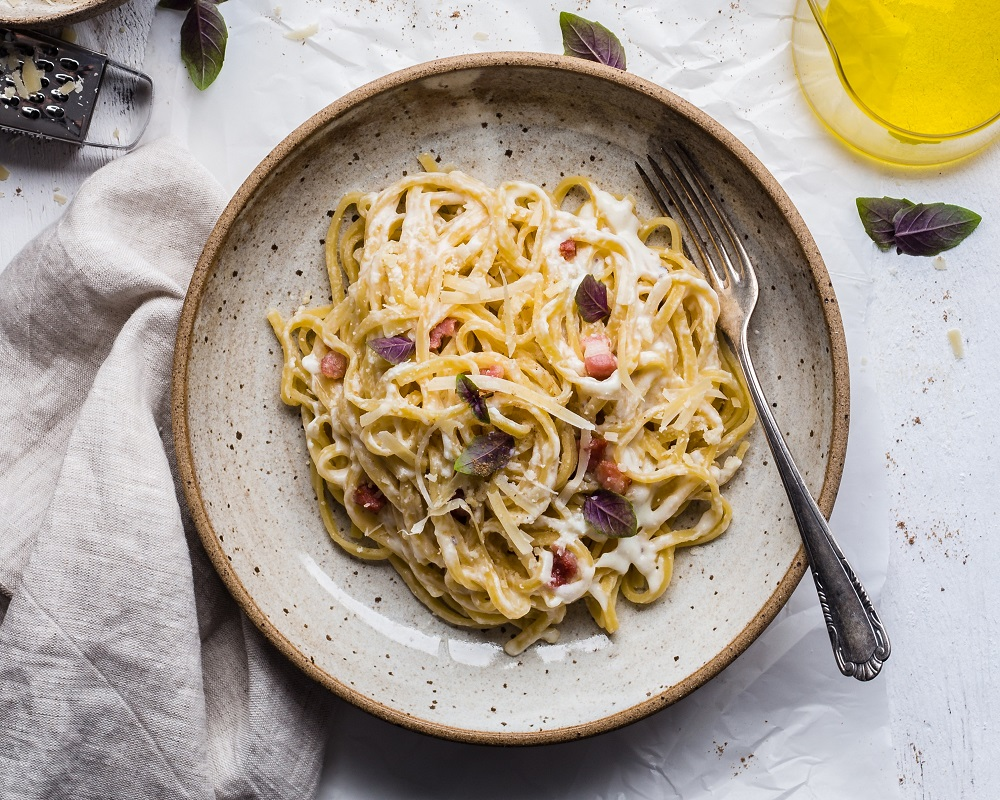
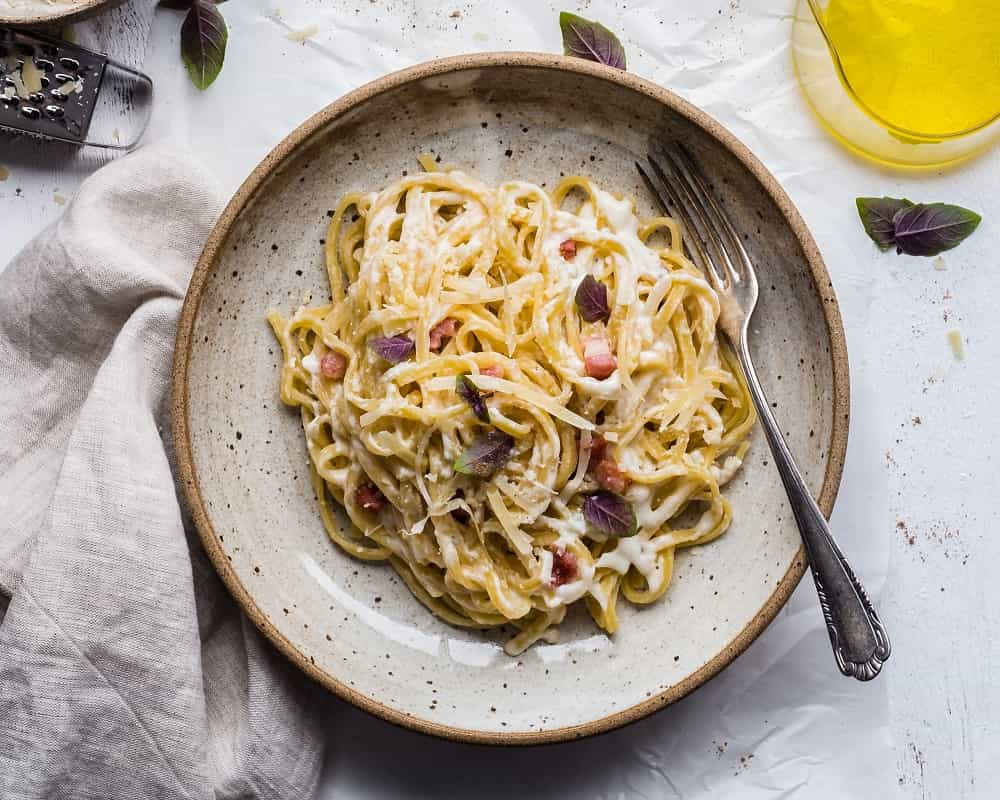
Minor fixes: removed commented out code blocks, removed unused images, compressed the current images, changed the size of aceptable images

diff --git a/templates/index.html b/templates/index.html
@@ -68,12 +68,14 @@
         <div class="col-12 py-3 border-bottom border-primary">
           <h2 class="font-weight-light font-italic fs-25 p3-">Recipes Dashboard</h2>
         </div>
-
+        
+        <!--itterate through each item in the data group-->
         {% for group in dashboard %}
         <div class="col-12 py-3 border-bottom border-primary">
           <h3>{{group.heading}}</h3>
           <div class="accordion" id="{{group.id}}-accordion">
-
+            
+            <!--itterate through each category in the data list-->
             {% for item in group.list %}
             <div class="card">
               <div class="card-header" id="{{group.id}}-heading{{loop.index}}">
@@ -86,7 +88,8 @@
 
               <div id="{{group.id}}-collapse{{loop.index}}" class="collapse" data-parent="#{{group.id}}-accordion">
                 <div class="card-body p-2">
-
+                  
+                  <!--if there are recipes to show create card per each recipe-->
                   {% if item.recipes %}
                   <div class="row p-1 d-flex flex-grow-1 align-content-center flex-wrap ">
                     {% for recipe in item.recipes %}
@@ -105,6 +108,8 @@
                       </a>
                     </div>
                     {% endfor %}
+                    
+                    <!--if the group has a filtered view page show this button-->
                     {% if item.total_recipes %}
                     <a href="{{item.url}}" class="btn btn-primary col-12">
                       <span>View all recipes in {{item.name}}</span>
@@ -113,6 +118,8 @@
                     </a>
                     {% endif %}
                   </div>
+                  
+                  <!--if there are no recipes in the group show the alert box-->
                   {% else %}
                   <div class="row d-flex justify-content-center">
                     <div class="col-auto">
@@ -134,125 +141,6 @@
           </div>
         </div>
         {% endfor %}
-        
-        <!--<div class="col-12 py-3 border-bottom border-primary">-->
-        <!--  <h3>Cuisines</h3>-->
-        <!--  <div class="accordion" id="cuisines-accordion">-->
-
-        <!--    {% for cuisine in cuisines %}-->
-        <!--    <div class="card">-->
-        <!--      <div class="card-header" id="cuisines-heading{{loop.index}}">-->
-        <!--        <h3 class="mb-0">-->
-        <!--          <button class="btn btn-link" type="button" data-toggle="collapse" data-target="#cuisines-collapse{{loop.index}}" aria-expanded="false" aria-controls="cuisines-collapse{{loop.index}}">-->
-        <!--          {{cuisine.name}}-->
-        <!--          </button>-->
-        <!--        </h3>-->
-        <!--      </div>-->
-
-        <!--      <div id="cuisines-collapse{{loop.index}}" class="collapse" data-parent="#cuisines-accordion">-->
-        <!--        <div class="card-body p-2">-->
-
-        <!--          {% if cuisine.recipes %}-->
-        <!--          <div class="row p-1 d-flex flex-grow-1 align-content-center flex-wrap">-->
-        <!--            {% for recipe in cuisine.recipes %}-->
-        <!--            <div class="col-12 col-lg-6 p-1">-->
-        <!--              <a href="{{ url_for('display_recipe', recipe_id=recipe._id) }}">-->
-        <!--                <div class="card bg-dark text-light d-flex align-items-end" style="height: 400px;">-->
-        <!--                  <img src="{{ url_for('static', filename='img/{0}'.format(recipe.picture)) }}" class="card-img h-100 object-fit-cover" alt="picture of {{recipe.name}}">-->
-        <!--                  <div class="card-img-overlay overflow-auto align-items-start flex-column h-100 rounded">-->
-        <!--                    <div class="bg-darkglass p-2 text-wrap mb-auto ">-->
-        <!--                      <h2 class="card-title font-weight-bold fs-10">{{recipe.name}}</h2>-->
-        <!--                      <h3 class="card-text fs-10">by&nbsp;<span class="text-capitalize font-italic">{{ recipe.author }}</span></h3>-->
-        <!--                      <p class="card-text fs-8">{{ recipe.description }}</p>-->
-        <!--                    </div>-->
-        <!--                  </div>-->
-        <!--                </div>-->
-        <!--              </a>-->
-        <!--            </div>-->
-        <!--            {% endfor %}-->
-        <!--            <a href="{{url_for('recipes_by_cuisine', cuisine_id=cuisine.id)}}" class="btn btn-primary col-12">-->
-        <!--              <span>View all recipes in {{cuisine.name}}</span>-->
-        <!--              <span class="badge badge-light">{{cuisine.total_recipes}}</span>-->
-        <!--              <span class="sr-only">Number of recipes in cuisine</span>-->
-        <!--            </a>-->
-        <!--          </div>-->
-        <!--          {% else %}-->
-        <!--          <div class="row d-flex justify-content-center">-->
-        <!--            <div class="col-auto">-->
-        <!--              <div class="alert alert-primary" role="alert">-->
-        <!--                <h4 class="alert-heading">No Recipies!</h4>-->
-        <!--                <hr>-->
-        <!--                <p>Unfortunatlly there are no recipes marked as {{cuisine.name}} Cuisine. </p>-->
-        <!--                <p class="mb-0">You can add your recepie using <a href="{{ url_for('add_recipe') }}" class="badge badge-success">Add Recipe</a> button!</p>-->
-        <!--              </div>-->
-        <!--            </div>-->
-        <!--          </div>-->
-        <!--          {% endif %}-->
-
-        <!--        </div>-->
-        <!--      </div>-->
-        <!--    </div>-->
-        <!--    {% endfor %}-->
-
-        <!--  </div>-->
-        <!--</div>-->
-        
-        <!--<div class="col-12 py-3 border-bottom border-primary">-->
-        <!--  <h3>Diatary Requirements and Food Allergies</h3>-->
-        <!--  <div class="accordion" id="requirements-accordion">-->
-
-        <!--    {% for item in requirements %}-->
-        <!--    <div class="card">-->
-        <!--      <div class="card-header" id="requirements-heading{{loop.index}}">-->
-        <!--        <h3 class="mb-0">-->
-        <!--          <button class="btn btn-link" type="button" data-toggle="collapse" data-target="#requirements-collapse{{loop.index}}" aria-expanded="false" aria-controls="requirements-collapse{{loop.index}}">-->
-        <!--          {{item.name}}-->
-        <!--          </button>-->
-        <!--        </h3>-->
-        <!--      </div>-->
-
-        <!--      <div id="requirements-collapse{{loop.index}}" class="collapse" data-parent="#requirements-accordion">-->
-        <!--        <div class="card-body p-2">-->
-
-        <!--          {% if item.recipes %}-->
-        <!--          <div class="row p-1 d-flex flex-grow-1 align-content-center flex-wrap ">-->
-        <!--            {% for recipe in item.recipes %}-->
-        <!--            <div class="col-12 col-lg-6 p-1">-->
-        <!--              <a href="{{ url_for('display_recipe', recipe_id=recipe._id) }}">-->
-        <!--                <div class="card bg-dark text-light d-flex align-items-end" style="height: 400px;">-->
-        <!--                  <img src="{{ url_for('static', filename='img/{0}'.format(recipe.picture)) }}" class="card-img h-100 object-fit-cover" alt="picture of {{recipe.name}}">-->
-        <!--                  <div class="card-img-overlay overflow-auto align-items-start flex-column h-100 rounded">-->
-        <!--                    <div class="bg-darkglass p-2 text-wrap mb-auto ">-->
-        <!--                      <h2 class="card-title font-weight-bold">{{recipe.name}}</h2>-->
-        <!--                      <h3 class="card-text">by&nbsp;<span class="text-capitalize font-italic">{{ recipe.author }}</span></h3>-->
-        <!--                      <p class="card-text">{{ recipe.description }}</p>-->
-        <!--                    </div>-->
-        <!--                  </div>-->
-        <!--                </div>-->
-        <!--              </a>-->
-        <!--            </div>-->
-        <!--            {% endfor %}-->
-        <!--          </div>-->
-        <!--          {% else %}-->
-        <!--          <div class="row d-flex justify-content-center">-->
-        <!--            <div class="col-auto ">-->
-        <!--              <div class="alert alert-primary" role="alert">-->
-        <!--                <h4 class="alert-heading">No Recipies!</h4>-->
-        <!--                <hr>-->
-        <!--                <p>Unfortunatlly there are no recipes marked as {{item.name}}. </p>-->
-        <!--                <p class="mb-0">You can add your recepie using <a href="{{ url_for('add_recipe') }}" class="badge badge-success">Add Recipe</a> button!</p>-->
-        <!--              </div>-->
-        <!--            </div>-->
-        <!--          </div>-->
-        <!--          {% endif %}-->
-
-        <!--        </div>-->
-        <!--      </div>-->
-        <!--    </div>-->
-        <!--    {% endfor %}-->
-
-        <!--  </div>-->
-        <!--</div>-->
         
       </div>
     </div>

diff --git a/templates/add_recipe.html b/templates/add_recipe.html
@@ -156,7 +156,7 @@
       <div class="col-12 col-md-6 offset-md-3 input-group py-3">
         <div class="custom-file">
           <input type="file" name="file" class="custom-file-input" id="recipe-picture">
-          <label class="custom-file-label" for="recipe-picture">Upload picture of your recipe</label>
+          <label class="custom-file-label" for="recipe-picture">Upload picture of your recipe (Max Size: 512 KB)</label>
         </div>
       </div>
     </div>

diff --git a/run.py b/run.py
@@ -12,7 +12,7 @@ app = Flask(__name__)
 app.config["MONGO_DBNAME"] = os.getenv('MONGO_DBNAME', 'cookbook')
 app.config["MONGO_URI"] = os.getenv('MONGO_URI', 'mongodb://localhost:27017/cookbook')
 app.config['UPLOAD_FOLDER'] = os.getenv('UPLOAD_FOLDER', '/static/img')
-app.config['MAX_CONTENT_LENGTH'] = 2 * 1024 * 1024
+app.config['MAX_CONTENT_LENGTH'] = 512 * 1024 ## since i do not use any compression I decided to decrease the aceptable image size to 0.5 Mb
 app.secret_key = os.getenv("SECRET_KEY", "fallbacksecretvalue123")
 
 mongo = PyMongo(app)
@@ -84,34 +84,6 @@ def home():
     categories_list = []
     cuisines_list = []
     requirements_list = []
-    
-    """
-    for category in categories:
-        category_name = category['name']
-        category_id = category['_id']
-        
-        recipes_list = [ r for r in mongo.db.recipes.find({'category': str(category_id)}, {'name', 'author', 'description', 'picture', '_id', 'views'}).sort('views', -1).limit(display_limit) ]
-        recipes_count = mongo.db.recipes.find({'category': str(category_id)}).count()
-        
-        categories_list.append({'id': category_id, 'name': category['name'], 'recipes': recipes_list, 'total_recipes': recipes_count})
-        
-    for cuisine in cuisines:
-        cuisine_name = cuisine['name']
-        cuisine_id = cuisine['_id']
-        
-        recipes_list = [ r for r in mongo.db.recipes.find({'cuisine': str(cuisine_id)}, {'name', 'author', 'description', 'picture', '_id', 'views'}).sort('views', -1).limit(display_limit) ]
-        recipes_count = mongo.db.recipes.find({'cuisine': str(cuisine_id)}).count()
-        
-        cuisines_list.append({'id': cuisine_id, 'name': cuisine['name'], 'recipes': recipes_list, 'total_recipes': recipes_count})
-        
-    vegiterian = [ r for r in mongo.db.recipes.find({'is_vegiterian': True}, {'name', 'author', 'description', 'picture', '_id', 'views'}).sort('views', -1).limit(display_limit) ]
-    lactosefree = [ r for r in mongo.db.recipes.find({'is_lactose_free': True}, {'name', 'author', 'description', 'picture', '_id', 'views'}).sort('views', -1).limit(display_limit) ]
-    glutenfree = [ r for r in mongo.db.recipes.find({'is_gluten_free': True}, {'name', 'author', 'description', 'picture', '_id', 'views'}).sort('views', -1).limit(display_limit) ]
-    
-    requirements_list.append({'name': 'Vegiterian', 'recipes': vegiterian})
-    requirements_list.append({'name': 'Lactose Free', 'recipes': lactosefree})
-    requirements_list.append({'name': 'Gluten Free', 'recipes': glutenfree})
-    """
     
     dashboard_list.append({'id': 'categories', 'heading': 'Categories', 'search_key': 'category', 'list': categories})
     dashboard_list.append({'id': 'cuisines','heading': 'Cuisines', 'search_key': 'cuisine', 'list': cuisines})
@@ -391,7 +363,7 @@ def review_recipe_post(recipe_id):
             },
                 
             '$push': { 
-                'reviews.reviews': review
+                'reviews.reviews': review ##push the review to the list
             }
         }
     )
